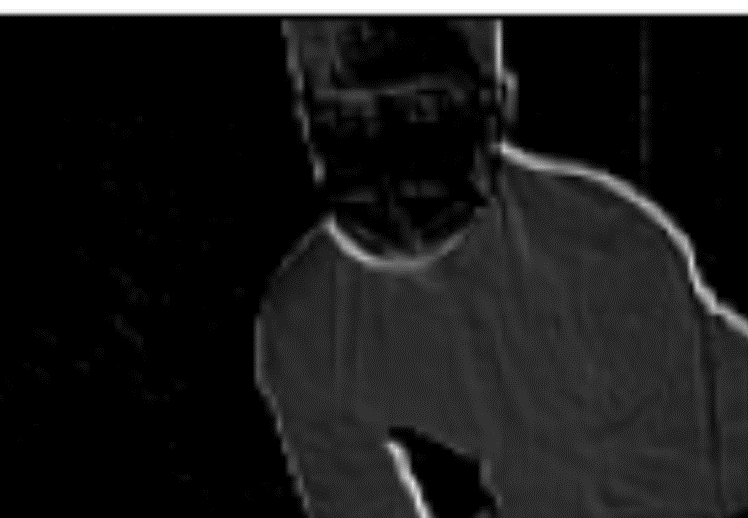
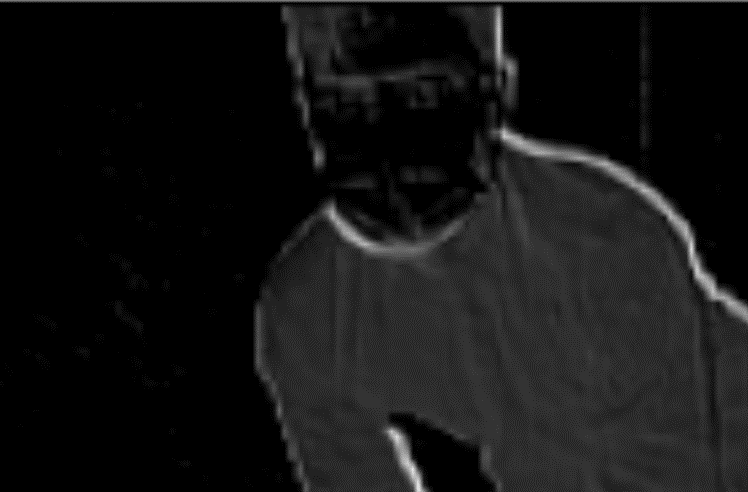
Add files via upload

diff --git a/index.html b/index.html
@@ -96,10 +96,9 @@
 <h2 id="a-updatesrefreshes">a. Updates/Refreshes</h2>
 <ol>
 <li>We made our own Neural Network for the feature generation by taking current_frames from OAK-D camera.</li>
-<li>We used inbuilt software called MTCNN facedetection algorithm for creation of the bounding box for faces.</li>
-<li>From the custom model, We deployed model_weights to ROS node which does face mask recognition in real time.</li>
-<li>This node publishes 'current_image' to face detection MTCNN subscriber Node.</li>
-<li>This node publishes /cmd/vel and custom messaaaaa</li>
+<li>From the custom NN model, We deployed model_weights to ROS node which does face mask recognition in real time by subscribing to real time data current_frame.</li>
+<li>We used inbuilt software called MTCNN face detection algorithm for creation of the bounding box for faces which is also subscribing to real time data current_frame.</li>
+<li>If the custom model is detecting face without maask, it publishes velocity to move towards that face by using Velocity subscriber Node.</li>
 </ol>
 <h2 id="b-project-process">b. Project Process</h2>
 <ul>
@@ -116,15 +115,29 @@
 Face with mask and Without Mask at different distances from OAK-D camera at different backgrounds with multiple gestures being performed.</p>
 </li>
 <li>
-<p>Few Instances of preliminary dataset.</p>
+<p><strong>Few Instances of preliminary dataset</strong></p>
 </li>
-<li>With Face Mask</li>
+<li><strong>With Face Mask</strong>  -  If the frame has frame consisting of face with mask</li>
 </ul>
 <p><img alt="H" src="img/Picture1.jpg" /><img alt="j" src="img/Picture2.jpg" /><img alt="I" src="img/Picture3.jpg" /><img alt="II" src="img/Picture4.jpg" /><img alt="I" src="img/Picture5.jpg" /><img alt="I" src="img/Picture8.jpg" /></p>
 <ul>
-<li>Without Face Mask</li>
+<li><strong>Without Face Mask</strong> - If the frame has consisting of face without mask and some ambiguity cases of half frames and fully blurred faces.</li>
 </ul>
 <p><img alt="H" src="img/Picture12.jpg" /><img alt="j" src="img/Picture13.jpg" /><img alt="I" src="img/Picture14.jpg" /><img alt="II" src="img/Picture15.jpg" /><img alt="I" src="img/Picture17.jpg" /><img alt="I" src="img/Picture18.jpg" /></p>
+<ul>
+<li><strong>No recognizable face in Frame</strong> - If the frame has no recognizable face and some distant images which are very unclear.</li>
+</ul>
+<p><img alt="H" src="img/Picture31.jpg" /><img alt="j" src="img/Picture30.jpg" /><img alt="I" src="img/Picture24.jpg" /><img alt="II" src="img/Picture25.jpg" /><img alt="I" src="img/Picture27.jpg" /><img alt="I" src="img/Picture29.jpg" /></p>
+<p>Then with the custom Neural Network we devloped, we generated feature maps which shows as following:</p>
+<p><img src="./img/Picture34.png" alt="Image 1" width="300" height="300">
+<img src="./img/Picture33.png" alt="Image 1" width="300" height="200">
+<img src="./img/Picture35.png" alt="Image 1" width="300" height="300">
+<img src="./img/Picture32.png" alt="Image 1" width="300" height="300"></p>
+<p>Even in this zoomed in images, the amount of pixels covering pixels are very few and very difficult to classify the images based on mask from the limited data with high number of variations.</p>
+<ul>
+<li>Although training Acuuracy is good by optimizing the algorithm and increasing number of epochs, <strong>testing accuracy is bad with only 65%</strong>. If we perform real time detection with this, it would be highly inaccurate.</li>
+</ul>
+<p><img src="./img/Error.png" alt="Image 1" width="500" height="500"></p>
 <h2 id="d-ros-network">d. ROS Network</h2>
 <h2 id="e-tradeoffs">e. Tradeoffs</h2>
 <h2 id="f-videos-of-working-model">f. Videos of Working Model</h2>
@@ -188,5 +201,5 @@ docs/
 
 <!--
 MkDocs version : 1.4.2
-Build Date UTC : 2023-05-03 04:45:30.311421+00:00
+Build Date UTC : 2023-05-03 07:38:16.038151+00:00
 -->
